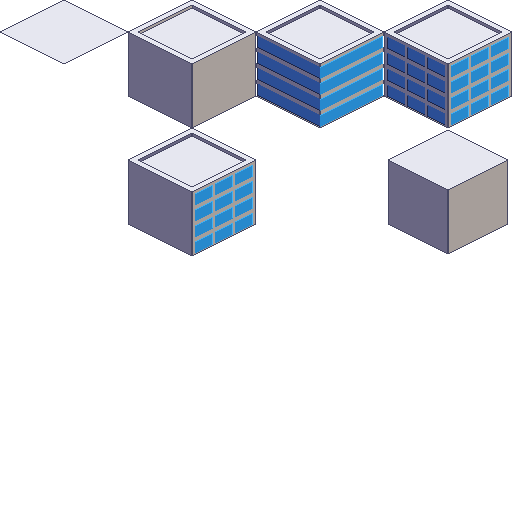
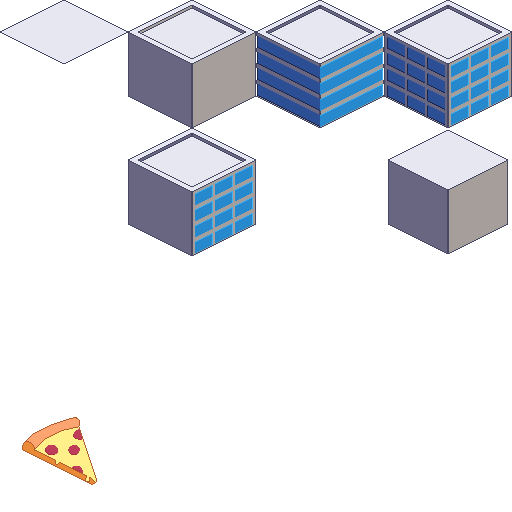
PIZZA

Changed region(s): [[0.0312, 0.8125, 0.1875, 0.9688]]

diff --git a/src/game/Goal.ts b/src/game/Goal.ts
@@ -1,15 +1,20 @@
 import { Actor } from "../engine/Actor.ts";
 import { Behaviour } from "../engine/Behaviour.ts";
 import { Time } from "../engine/Engine.ts";
+import { Spritesheet } from "../engine/Spritesheet.ts";
 import { Vec3 } from "../engine/Vec3.ts";
 import { getPosPrefix } from "./PlayerController.ts";
 
+const BOUNCE_SPEED = 0.001;
+const BOUNCE_AMOUNT = 0.25;
+
 export class Goal extends Behaviour {
-    constructor(private target: Actor) {
+    constructor(private target: Actor, private sheet: Spritesheet) {
         super();
     }
 
     hasWon = false;
+    floatAmount = 0;
 
     update(actor: Actor, time: Time): void {
         if (
@@ -25,5 +30,22 @@ export class Goal extends Behaviour {
                 time,
             );
         }
+    }
+
+    render(actor: Actor, time: Time): void {
+        const jiggle = (Math.sin(time.time * BOUNCE_SPEED)) * BOUNCE_AMOUNT;
+
+        if (this.hasWon) {
+            this.floatAmount = this.floatAmount * 0.95 + 2 * 0.05;
+        } else {
+            this.floatAmount = 0.25;
+        }
+        actor.renderer?.renderSprite(
+            this.sheet,
+            12,
+            actor.position.translation.add(
+                new Vec3(0, 0, this.floatAmount + jiggle),
+            ),
+        );
     }
 }

diff --git a/src/game/main.ts b/src/game/main.ts
@@ -387,8 +387,9 @@ const createBoomerang = (half: number) => {
             robot.position.translation = new Vec3(0, 0, 0);
 
             const goal = e.createActor("goal");
+            goal.renderer = new SpriteRenderer();
             goal.position.translation = new Vec3(4, 4, 2);
-            goal.addBehaviour(new Goal(robot));
+            goal.addBehaviour(new Goal(robot, tileSheet));
         },
         onEarlyRender: (e) => {
             // Background
